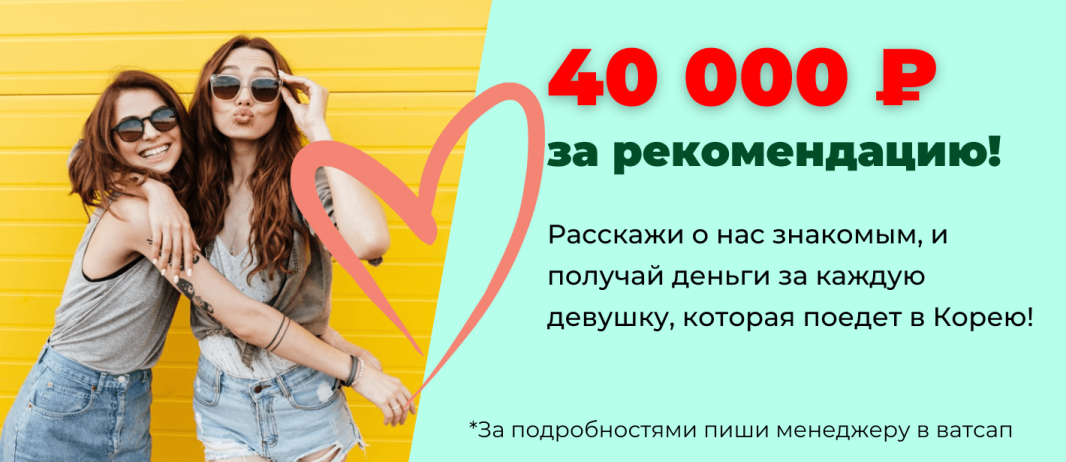
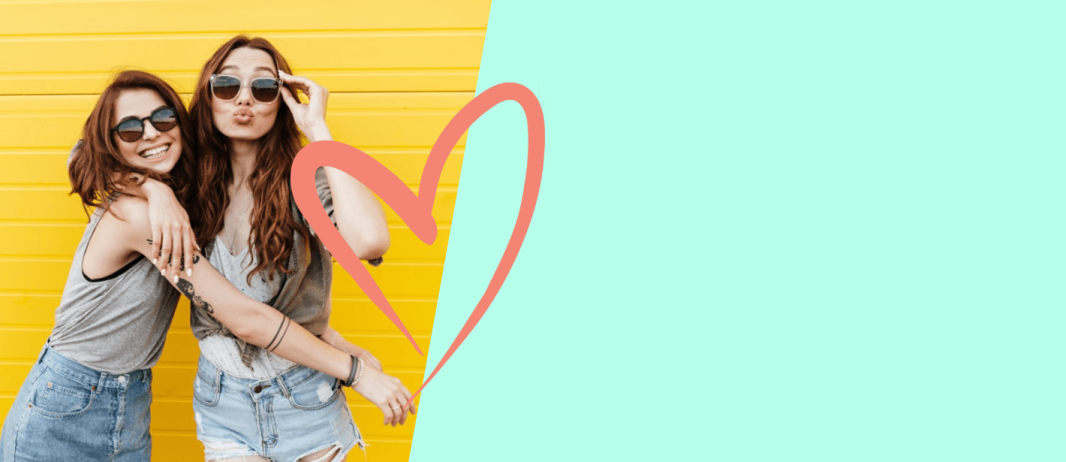
slider text

diff --git a/src/main/burning-offers.html b/src/main/burning-offers.html
@@ -25,9 +25,37 @@
 
 						<li class="swiper-slide">
 
-							<div class="burning-offers-item">
+							<div class="burning-offers-item burning-offers-item-1">
 
-								<img src="/img/burning-offers/9.png" alt="" loading="lazy" width="1066" height="462">
+								<div class="burning-offers-item-1__content">
+
+									<p class="burning-offers-item-1__title">
+										Вакансия хостес <br>
+										в Топ-клуб в г. Тегу
+									</p>
+
+									<p class="burning-offers-item-1__desc">
+										Повышенный оклад
+									</p>
+
+									<p class="burning-offers-item-1__price">
+										2 500 000 ₩
+									</p>
+
+								</div>
+
+								<p class="burning-offers-item-1__note">
+									*Пиши менеджеру в ватсап, чтобы узнать подробности и забронировать место
+								</p>
+
+								<picture>
+
+									<source srcset="/img/burning-offers/9.webp" type="image/webp">
+									<source srcset="/img/burning-offers/9.png">
+
+									<img src="/img/burning-offers/9.png" alt="" loading="lazy" width="1066" height="462">
+
+								</picture>
 
 							</div>
 
@@ -35,9 +63,36 @@
 
 						<li class="swiper-slide">
 
-							<div class="burning-offers-item">
+							<div class="burning-offers-item burning-offers-item-2">
 
-								<img src="/img/burning-offers/10.png" alt="" loading="lazy" width="1066" height="462">
+								<div class="burning-offers-item-2__content">
+
+									<p class="burning-offers-item-2__price">
+										40 000 ₽
+									</p>
+
+									<p class="burning-offers-item-2__title">
+										за рекомендацию!
+									</p>
+
+									<p class="burning-offers-item-2__desc">
+										Расскажи о нас знакомым, и получай деньги за каждую девушку, которая поедет в Корею!
+									</p>
+
+								</div>
+
+								<p class="burning-offers-item-2__note">
+									*За подробностям пиши менеджеру в ватсап
+								</p>
+
+								<picture>
+
+									<source srcset="/img/burning-offers/10.webp" type="image/webp">
+									<source srcset="/img/burning-offers/10.png">
+
+									<img src="/img/burning-offers/10.png" alt="" loading="lazy" width="1066" height="462">
+
+								</picture>
 
 							</div>
 

diff --git a/src/css/burning-offers.css b/src/css/burning-offers.css
@@ -53,7 +53,116 @@
 
 	&-item {
 
-		outline:1px solid red;
+		height: 462px;
+
+		img {
+
+			position: absolute;
+			top: 0;
+			left: 0;
+			right: 0;
+			bottom: 0;
+			z-index: -1;
+
+		}
+
+		&-1 {
+
+			padding: 16px 48px;
+			display: flex;
+			flex-direction: column;
+
+			&__content {
+
+				max-width: 600px;
+
+			}
+
+			&__title {
+
+				margin: 20px 0 40px;
+				font-weight: 900;
+				font-size: 50px;
+				color: #cf2348;
+
+			}
+
+			&__desc {
+
+				font-size: 46px;
+				margin-left: 72px;
+				color: #6d2d0b;
+
+			}
+
+			&__price {
+
+				margin: 16px;
+				font-weight: 700;
+				font-size: 70px;
+				color: #cf2348;
+
+			}
+
+			&__note {
+
+				margin-top: auto;
+				font-size: 22px;
+
+			}
+
+		}
+
+		&-2 {
+
+			padding: 16px 20px;
+			display: flex;
+			flex-direction: column;
+
+			&__content {
+
+				max-width: 500px;
+				margin-left: auto;
+
+			}
+
+			&__price {
+
+				font-weight: 900;
+				font-size: 80px;
+				color: #f00;
+				text-shadow: 0 0 10px #707070;
+
+			}
+
+			&__title {
+
+				font-weight: 900;
+				font-size: 44px;
+				color: #004d28;
+				margin-bottom: 24px;
+
+			}
+
+			&__desc {
+
+				font-size: 26px;
+				line-height: 1.6;
+				font-weight: 500;
+				color: #030202;
+
+			}
+
+			&__note {
+
+				margin-top: auto;
+				font-size: 22px;
+				text-align: right;
+				margin-right: 32px;
+
+			}
+
+		}
 
 	}
 
